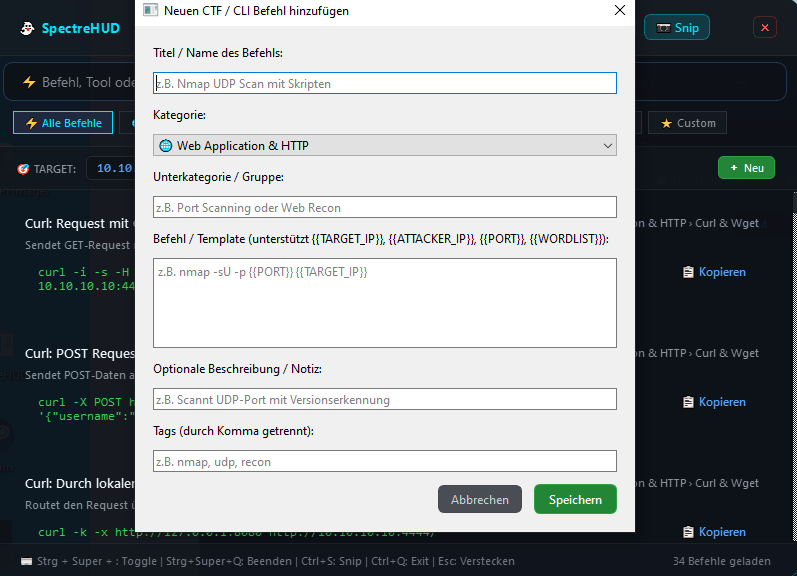
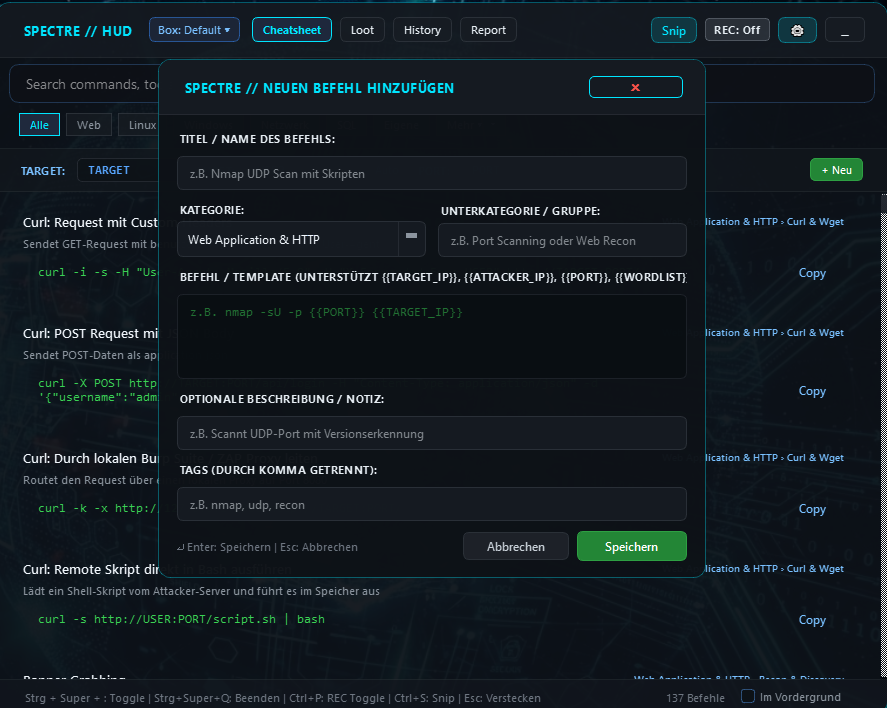
new assets

diff --git a/README.md b/README.md
@@ -35,6 +35,8 @@ SpectreHUD is an ultra-fast, frameless HUD overlay built on PyQt6 — accessible
 
 ![Add Command Dialog](assets/spectrehud_add_command.png)
 
+![New Project Workspace Dialog](assets/spectrehud_new_project.png)
+
 ---
 
 ## Phase-Based Report Workflow
@@ -49,6 +51,8 @@ The automated report generator (`core/report_builder.py`) organizes session data
 6. **Notes & Uncategorized** — Miscellaneous observations and takeaways.
 
 Each phase includes freeform text areas for explanations, followed by a chronological terminal output log and an Executive Summary template. Edit your report in the **Report Tab** (`Ctrl + 4`) and save with `Ctrl + S`.
+
+![Live Markdown Report Editor](assets/spectrehud_report_editor.png)
 
 ---
 
